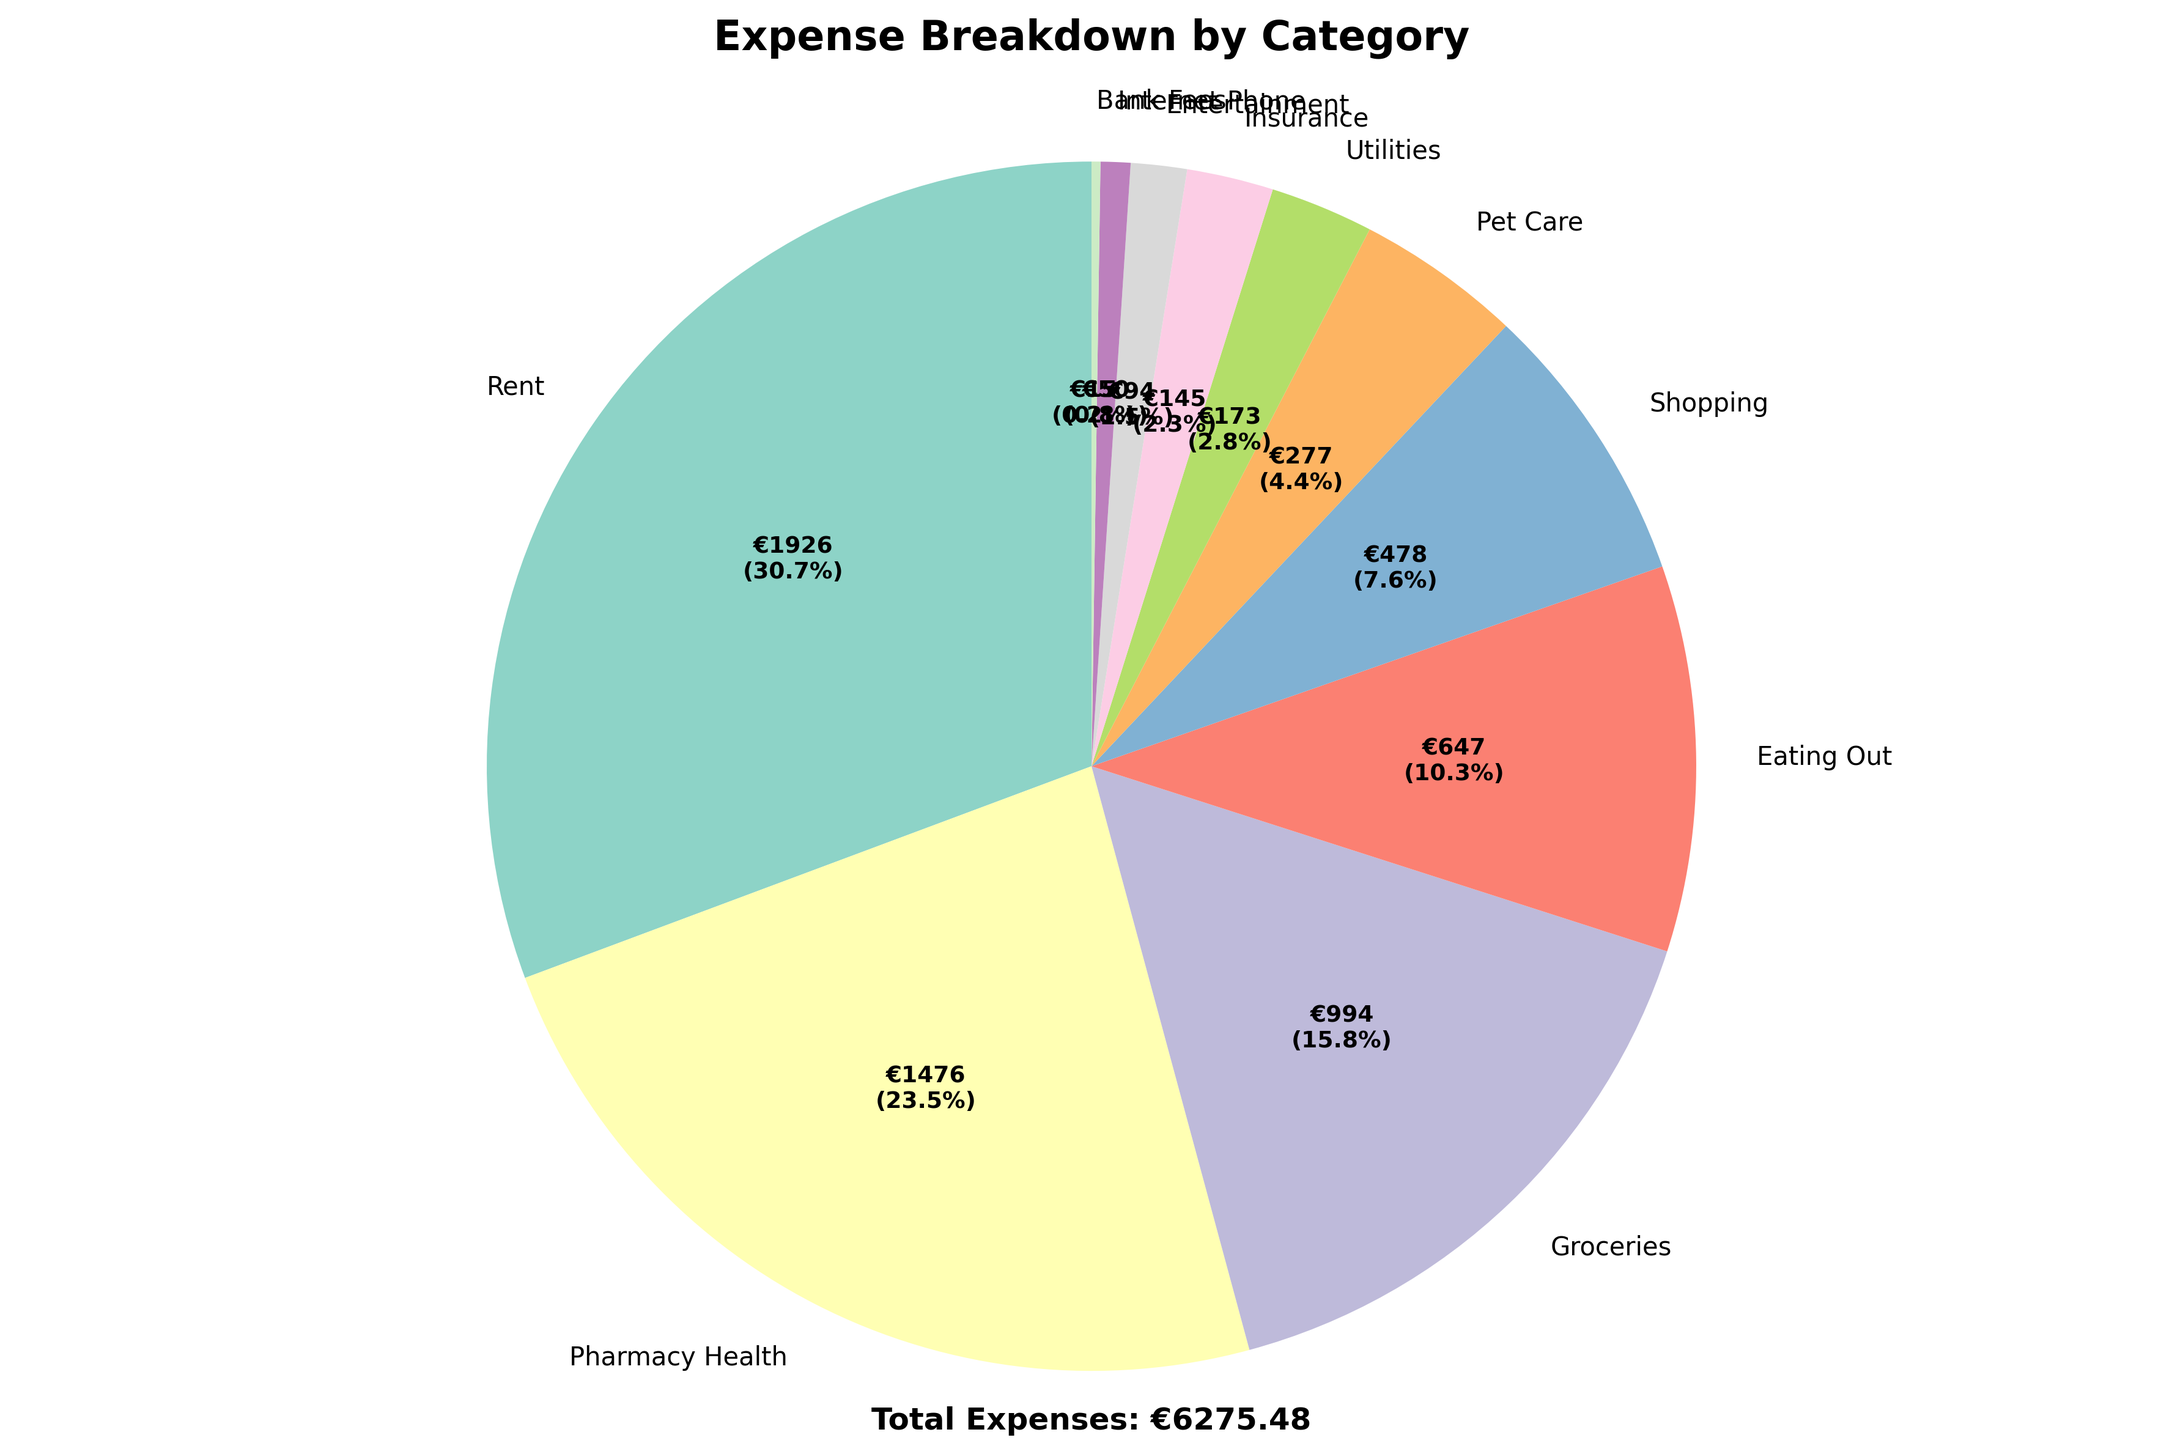
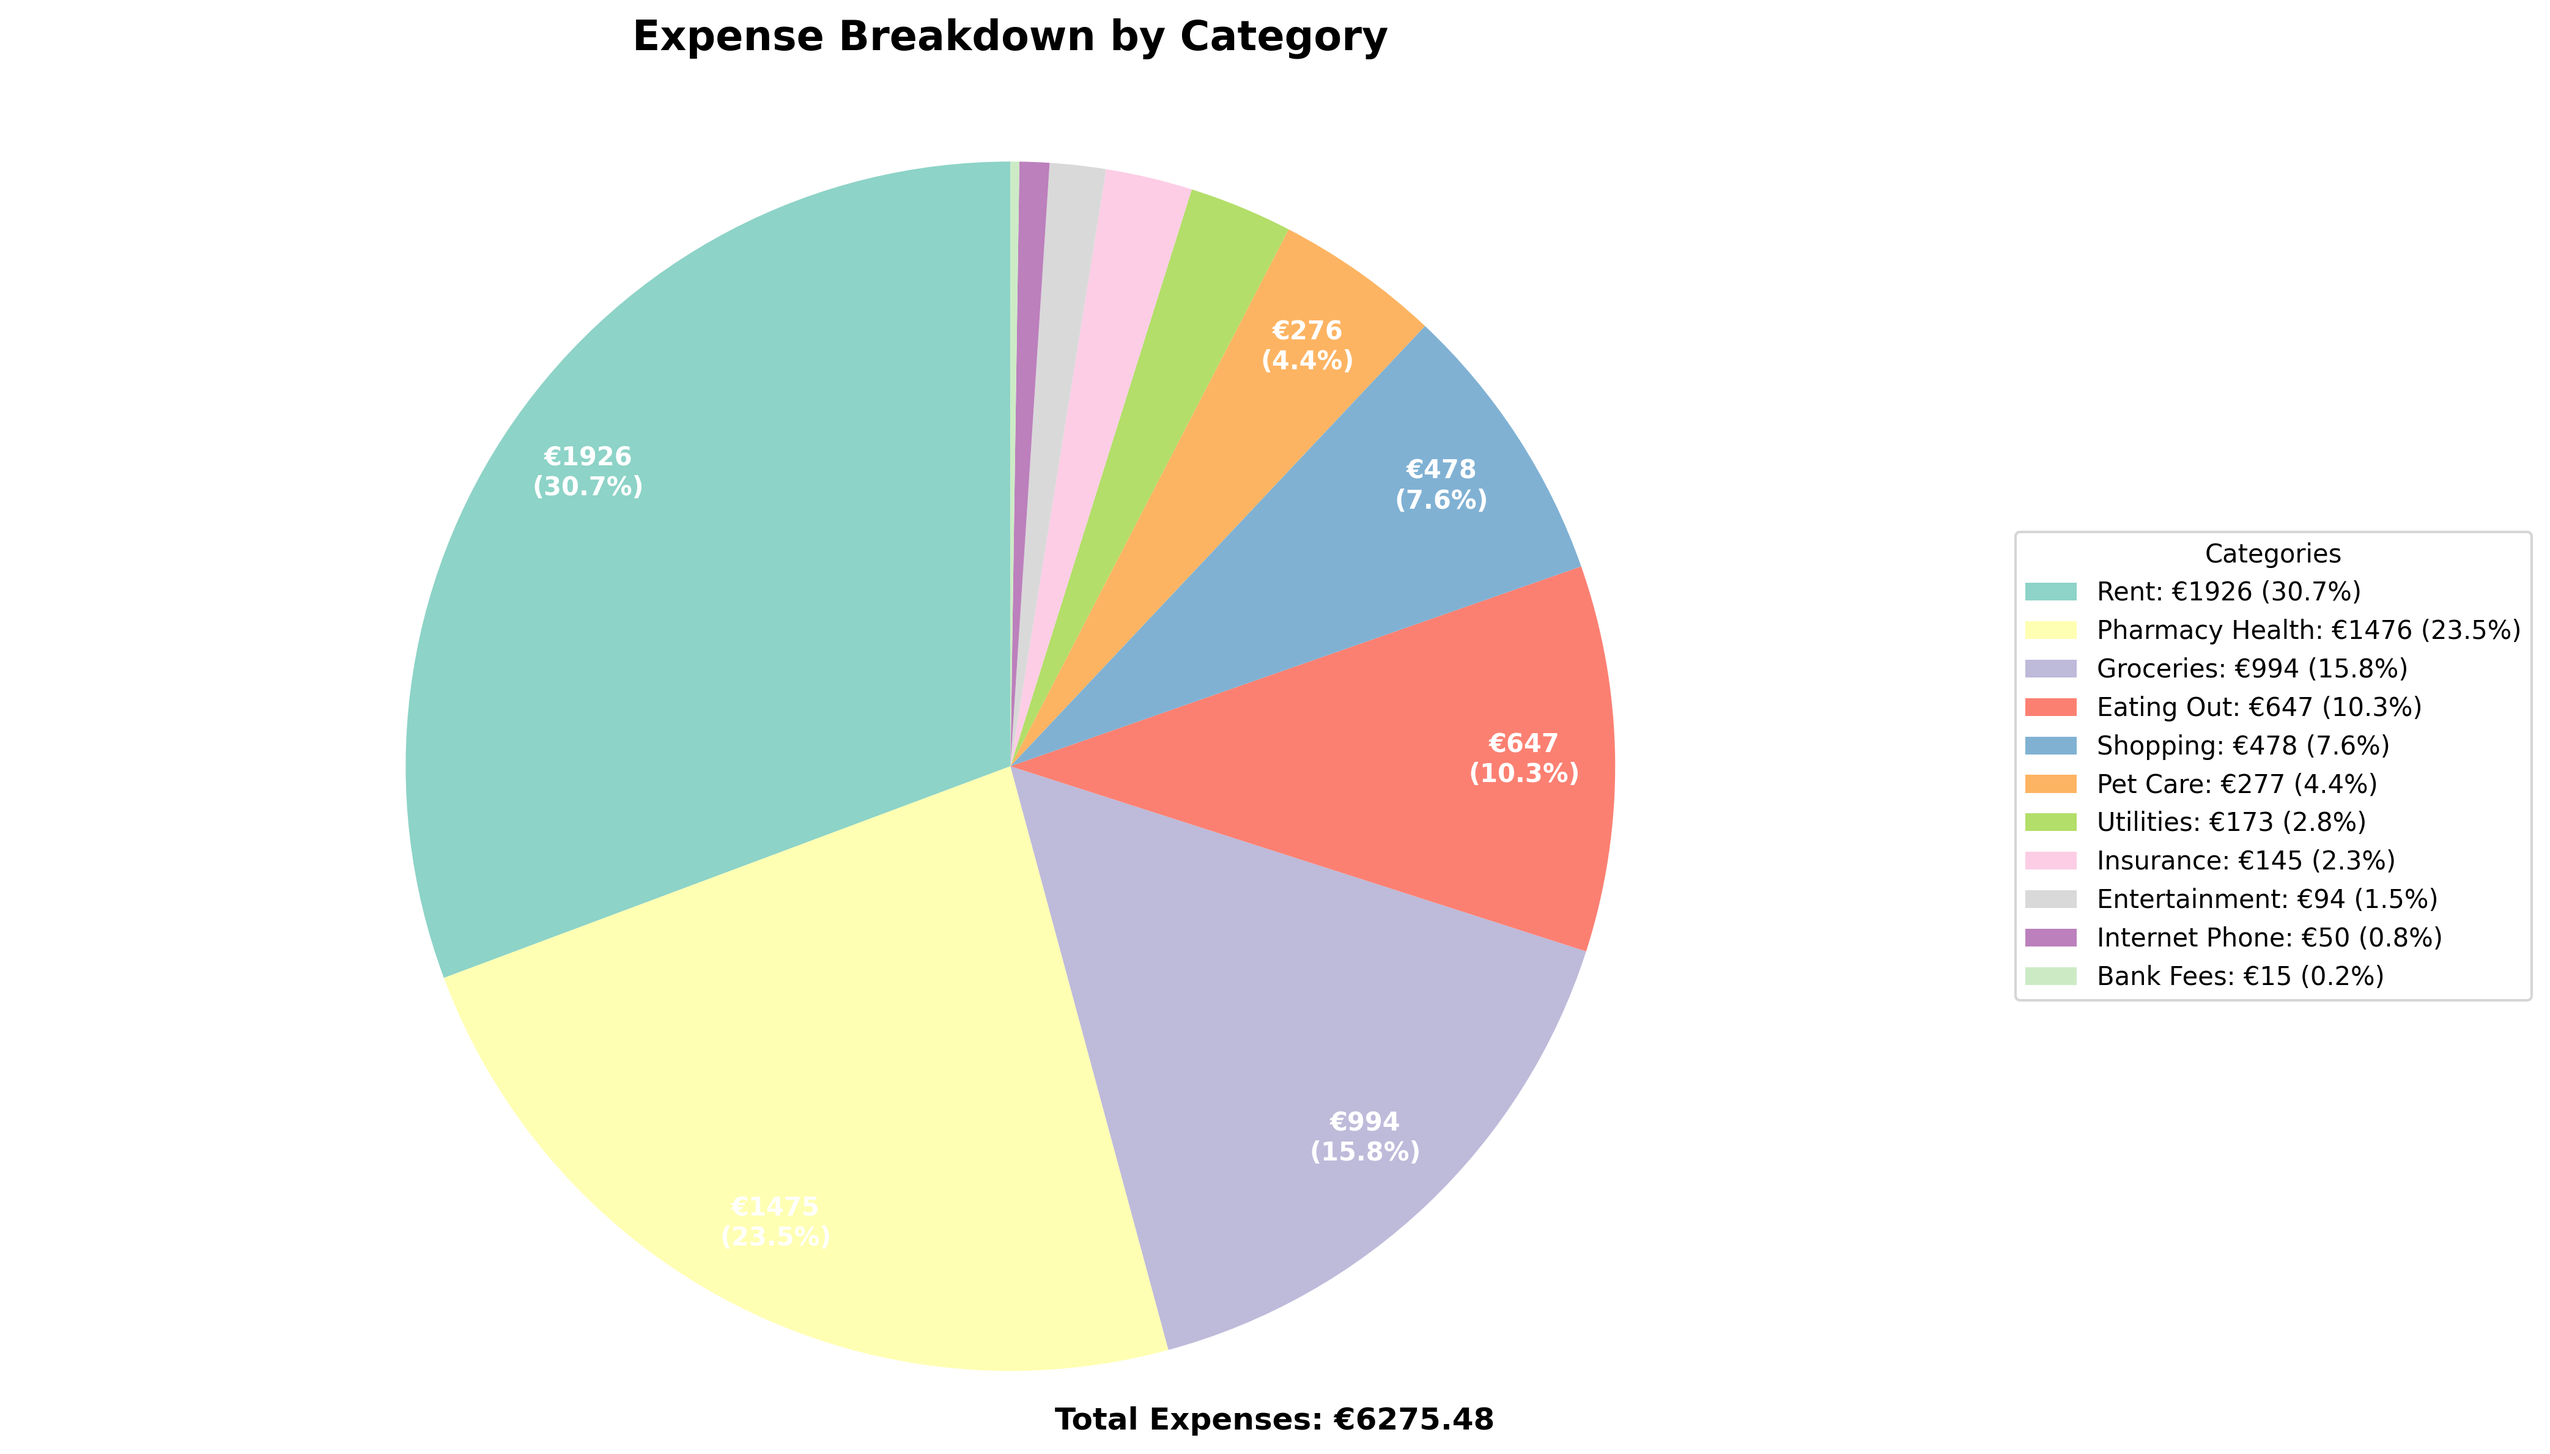
improve legibility

diff --git a/expense_analyzer.py b/expense_analyzer.py
@@ -10,6 +10,7 @@ import re
 from collections import defaultdict
 from decimal import Decimal
 import matplotlib.pyplot as plt
+import matplotlib.patheffects as path_effects
 
 class ExpenseAnalyzer:
     def __init__(self, statements_folder="statements"):
@@ -27,7 +28,7 @@ class ExpenseAnalyzer:
             "eating_out": [
                 "restaurant", "pizza", "burger", "wolt", "lieferando", "deliveroo",
                 "mcdonalds", "kfc", "subway", "asia", "doner", "döner", "cafe",
-                "bar", "pub", "borgor", "brgrs", "social club"
+                "bar", "pub", "borgor", "brgrs", "salami social"
             ],
             "pharmacy_health": [
                 "dm drogerie", "rossmann", "apotheke", "pharmacy", "arzt", "doctor",
@@ -177,30 +178,57 @@ class ExpenseAnalyzer:
         
         categories = [cat.replace('_', ' ').title() for cat, _ in sorted_categories]
         amounts = [amount for _, amount in sorted_categories]
+        total_expenses = sum(amounts)
         
-        # Create pie chart
-        plt.figure(figsize=(12, 8))
+        # Create pie chart with legend instead of labels to avoid overlap
+        plt.figure(figsize=(14, 8))
         colors = plt.cm.Set3(range(len(categories)))
+        
+        # Custom autopct function that only shows percentages for slices > 3%
+        def make_autopct(values):
+            def my_autopct(pct):
+                if pct >= 3.0:  # Only show text for slices >= 3%
+                    absolute = int(pct/100.*sum(values))
+                    return f'€{absolute}\n({pct:.1f}%)'
+                return ''
+            return my_autopct
         
         wedges, texts, autotexts = plt.pie(
             amounts, 
-            labels=categories,
-            autopct=lambda pct: f'€{pct*sum(amounts)/100:.0f}\n({pct:.1f}%)',
+            labels=None,  # Remove direct labels to avoid crowding
+            autopct=make_autopct(amounts),
             startangle=90,
-            colors=colors
+            colors=colors,
+            pctdistance=0.85  # Move percentage text closer to center
         )
         
-        # Improve text readability
+        # Improve text readability for displayed percentages
         for autotext in autotexts:
-            autotext.set_color('black')
-            autotext.set_fontsize(9)
+            autotext.set_color('white')
+            autotext.set_fontsize(10)
             autotext.set_weight('bold')
+            autotext.set_ha('center')
+            # Add black outline for better visibility on light backgrounds
+            autotext.set_path_effects([
+                path_effects.withStroke(linewidth=3, foreground='black')
+            ])
+        
+        # Create legend with amounts and percentages
+        legend_labels = []
+        for cat, amount in zip(categories, amounts):
+            percentage = (amount / total_expenses) * 100
+            legend_labels.append(f'{cat}: €{amount:.0f} ({percentage:.1f}%)')
+        
+        plt.legend(wedges, legend_labels, 
+                  title="Categories", 
+                  loc="center left", 
+                  bbox_to_anchor=(1, 0, 0.5, 1),
+                  fontsize=10)
         
         plt.title('Expense Breakdown by Category', fontsize=16, fontweight='bold', pad=20)
         plt.axis('equal')
         
         # Add total at bottom
-        total_expenses = sum(amounts)
         plt.figtext(0.5, 0.02, f'Total Expenses: €{total_expenses:.2f}', 
                    ha='center', fontsize=12, fontweight='bold')
         
